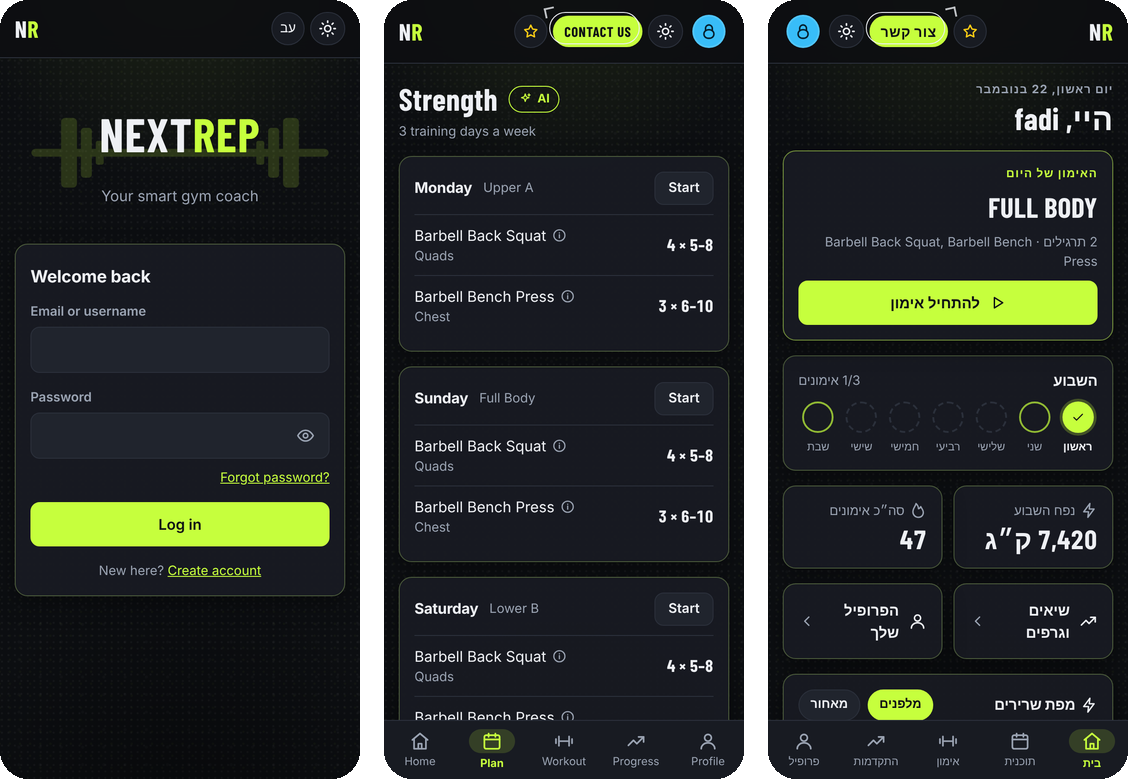
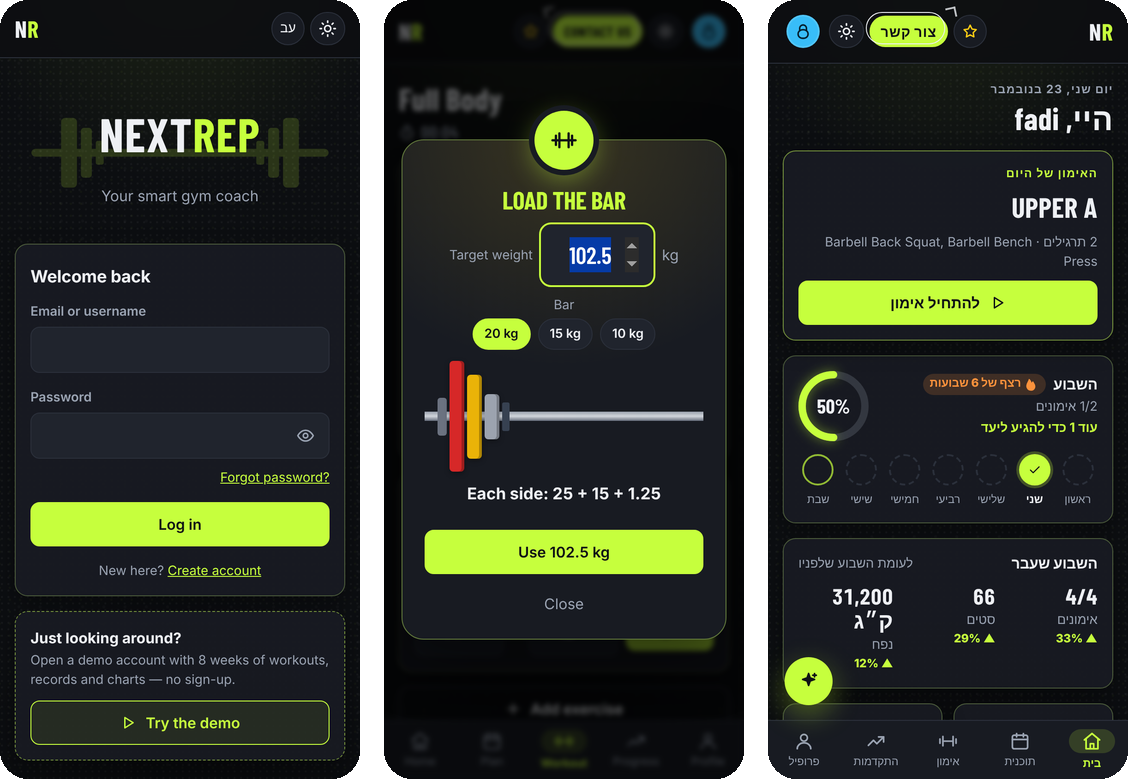
docs: new screenshots and demo GIF (AI coach, achievements, streaks, desktop layout)
Claude-Session: https://claude.ai/code/session_01FQVGqcLnhrE4aM4Dz71kRr

diff --git a/README.md b/README.md
@@ -15,22 +15,22 @@ personal records and shows your progress — in English or Hebrew, on phone or d
 **App: https://nextrep-07r6.onrender.com** · API docs: https://nextrep-07r6.onrender.com/swagger-ui.html
 
 > Hosted on free tiers (Render + Neon). An uptime monitor keeps the server awake, but if it has been idle the
-> **first load can take up to a minute**. Create an account and set up your training profile to get a plan.
+> **first load can take up to a minute**. Tap **Try the demo** for a ready account with 8 weeks of workouts — no sign-up — or create your own.
 
 <p align="center">
-  <img src="docs/screenshots/demo.gif" width="300" alt="Logging a set with the plate calculator, a new personal record, and progress charts">
+  <img src="docs/screenshots/demo.gif" width="300" alt="Asking the AI coach, loading the bar with the plate calculator, a new PR, an unlocked achievement and the achievements page">
 </p>
 
 <p align="center">
-  <img src="docs/screenshots/mobile.png" alt="Home, workout logging with recommendations, plate calculator and progress charts">
+  <img src="docs/screenshots/mobile.png" alt="Home with the weekly ring, streak and last-week comparison; a workout with recommendations; achievements; the AI coach">
 </p>
 
 <p align="center">
-  <img src="docs/screenshots/desktop.png" alt="Desktop home with the 3D muscle map">
+  <img src="docs/screenshots/desktop.png" alt="Desktop home that fits one screen, with the anatomical 3D muscle map">
 </p>
 
 <p align="center">
-  <img src="docs/screenshots/mobile-2.png" alt="Login, weekly AI plan and the Hebrew right-to-left interface">
+  <img src="docs/screenshots/mobile-2.png" alt="Login with the one-click demo, the plate calculator and the Hebrew right-to-left interface">
 </p>
 
 ---
